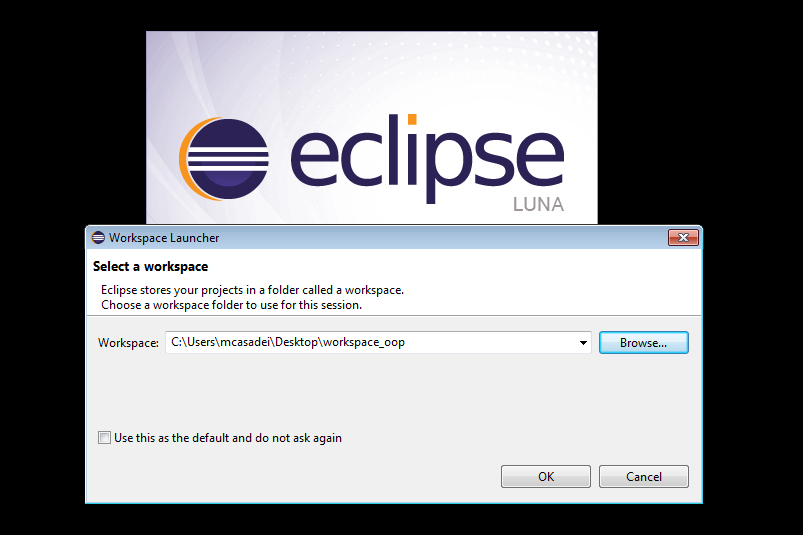
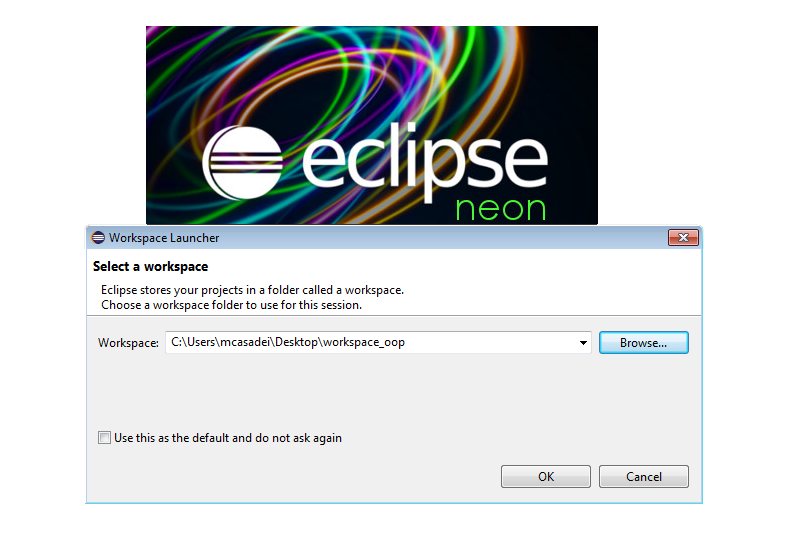
improvments on slides for the lab n.3

diff --git a/slides/03/03-Interfaces.tex b/slides/03/03-Interfaces.tex
@@ -1,7 +1,8 @@
 \documentclass[presentation]{beamer}
-\usepackage{oop-slides}
+\usepackage{../oop-slides-pianini}
 \setbeamertemplate{bibliography item}[text]
-\title[OOP03 -- Interfaces]{03 \\ Eclipse, Incapsulamento e Interfacce}
+\title[OOP03 -- Interfaces]{03\\Eclipse IDE, Incapsulamento e Interfacce}
+\author[Pianini]{Danilo Pianini\\Angelo Croatti, Simone Grotti, Mirko Viroli}
 
 \begin{document}
 	
@@ -11,48 +12,55 @@
 %Outline
 %====================
 \fr{Outline}{
-	\bl{Goal della lezione}{
-		\iz{ 
-			\item Introduzione ad Eclipse
-			\item Costruzione e test di classi con incapsulamento
-			\item Costruzione di classi con relazione di composizione e d'uso verso una interfaccia
-		}
-	}
+\bl{Goal della lezione}{
+\iz{ 
+\item Introduzione ad Eclipse
+\item Costruzione e test di classi con incapsulamento
+\item Costruzione di classi con relazione di composizione e d'uso verso una interfaccia
 }
-
+}
+}
 
 \begin{frame}<beamer>
 	\frametitle{Outline}
 	\tableofcontents[]
 \end{frame}
+
 \section{Eclipse Overview}
-
 \subsection{Introduzione}
-\fr{Integrated Development Environment (IDE)}{
 
-%	\bl{}{
-		\iz{
-			\item Gli Integrated Development Environment (IDE) sono applicazioni che integrano - nel medesimo ambiente - un insieme di strumenti per lo sviluppo di progetti software (e non)
-			\iz{
-					\item Editor di testo, compilatore, macchine virtuali per l'esecuzione e il debugging delle applicazioni, etc.
-											
-					\item Esempi di IDE sono Eclipse~\cite{eclipse}, Netbeans~\cite{netbeans}, Microsoft Visual Studio~\cite{vstudio}, JBuilder~\cite{jbuilder}, etc.
-				}
-		}				
-		\iz{
-			\item Un progetto è una collezione organizzata di risorse 
-				\iz{
-					\item Sorgenti, librerie, compilati, documentazione etc.
-				}
-		}			
-		\iz{
-			\item Gli IDE permettono di sviluppare progetti, in termini di creazione ed interazione con le risorse
-				\iz{
-						\item Editing, compilazione, esecuzione, debugging, testing, deployment (distribuzione delle applicazioni)	
-				}
-		}
-%	}
-}
+\begin{frame}{Integrated Development Environment (IDE)}
+
+\begin{block}{}
+\emph{A software suite that consolidates the basic tools developers need to write and test software. An IDE contains a code editor, a compiler and a debugger that the developer accesses through a single user interface.}
+\end{block}
+
+\begin{itemize}
+\item Ambiente integrato per la creazione e la gestione di progetti software.
+\begin{itemize}
+\item Un progetto, per un IDE, è composto da una collezione organizzata di risorse: sorgenti, librerie, compilati, documentazione, \dots
+\end{itemize}
+\item Componenti tipici di un IDE:
+\begin{itemize}
+\item Editor di testo con Syntax Highlighting (e Code Completion)
+\item Compilatore
+\item Macchina(e) virtuale per l'esecuzione e il debugging delle applicazioni
+\item Strumenti per agevolare il deployment (distribuzione) delle applicazioni
+\item \dots
+\end{itemize}
+\item Esempi di IDE:
+\begin{itemize}
+\item Eclipse, NetBeans, IntelliJ IDEA, Microsoft Visual Studio, XCode, \dots
+\end{itemize}
+\end{itemize}
+\end{frame}
+
+\begin{frame}{Diffusione dei principali IDE}
+\fg{height=0.7\textheight}{img/topIDE2015.png}
+Dati aggiornati a Luglio 2015\\\footnotesize{(fonte: \url{knoema.com/jtieieg/popularity-of-programming-languages})}
+\end{frame}
+
+
 
 \fr{Eclipse Overview}{
 
@@ -70,7 +78,7 @@
 	\bl{Un po' di storia}{
 		\iz{
 			\item Nato nei laboratori di ricerca IBM (alphaWorks) 
-			\item	Successivamente	donato alla comunità open-source che ora ne cura lo sviluppo per mezzo di una apposita fondazione~\cite{eclipse-foundation}
+			\item	Successivamente	donato alla comunità open-source che ora ne cura lo sviluppo per mezzo di una apposita fondazione
 			\item Correntemente supportato/utilizzato da un vasto numero di sviluppatori, sia in ambito accademico che industriale
 		}
 	}
@@ -81,7 +89,7 @@
 \subsection{Operazioni Base per lo Sviluppo di Progetti Java}
 
 \fr{Avvio di Eclipse: Scelta del Workspace}{
-	\fg{height=0.6\textheight}{img/eclipse_startup.png}	
+	\fg{height=0.8\textheight}{img/eclipse_startup.png}	
 }
 \fr{Creazione di Progetti Java 1/3}{
 	\fg{height=0.85\textheight}{img/new_prj1.png}
@@ -182,7 +190,7 @@
 				}
 			\item Supporto nativo lo sviluppo di nuovi plug-in
 				\iz{
-					\item Plug-in Development Environment (PDE)~\cite{eclipse-pde}
+					\item Plug-in Development Environment (PDE)
 				}
 		}
 	}
@@ -223,23 +231,19 @@
 		\fg{height=0.85\textheight}{img/jdt_perspective.png}
 }
 
-
-
-
-
 \section{Lab Startup}
 
 \fr{Preparazione Ambiente di Lavoro 1/2}{
-	\iz{
-		\item Accendere il PC
-		\item Loggarsi sul sito del corso
-		\iz{
-			\item \textcolor{blue}{\moodleurl}
-		}
-		\item Scaricare dalla sezione \texttt{lab} del sito il file \texttt{lab03.zip} contenente il materiale dell'esercitazione odierna
-		\item Spostare il file scaricato sul Desktop
-		\item Decomprimere il file usando 7zip (o un programma analogo) sul Desktop
-	}
+\iz{
+\item Accendere il PC
+\item Loggarsi sul sito del corso
+\iz{
+\item\textcolor{blue}{\url{https://bit.ly/oop2016cesena}}
+}
+\item Scaricare dalla sezione \texttt{lab} del sito il file \texttt{lab03.zip} contenente il materiale dell'esercitazione odierna
+\item Spostare il file scaricato sul Desktop
+\item Decomprimere il file usando 7zip (o un programma analogo) sul Desktop
+}
 }
 
 \fr{Preparazione Ambiente di Lavoro 2/2}{
@@ -487,7 +491,8 @@
 		\iz{
 			\item Campi
 			\iz{
-				\item \cil{int id, nMaxStudents, nRegisteredStudents; String courseName}
+				\item \cil{int id, nMaxStudents, nRegisteredStudents;}
+				\item \cil{String courseName;}
 				\item \cil{Student[] students; Professor professor}
 				\item \cil{ExamRoom room} (classe che modella un aula, \textcolor{blue}{fornita tra i sorgenti})
 			}
@@ -503,7 +508,7 @@
 			\iz{
 				\item \cil{public void registerStudent(Student student)}
 				\iz{
-					\item Iscrive lo studente all'appello. Nel caso sia stato già raggiunto il limite massimo di studenti per l'appello non fa nulla
+					\item Iscrive lo studente all'appello. Qualora si sia raggiunto il limite massimo di studenti per l'appello non fa nulla.
 				}
 			}
 		}
@@ -589,12 +594,12 @@
 	}
 }
 
-\begin{frame}[allowframebreaks]
- \frametitle{Bibliography}
-	\bibliographystyle{plain}
-	\small
- \bibliography{biblio}
-\end{frame}
+%\begin{frame}[allowframebreaks]
+% \frametitle{Bibliography}
+%	\bibliographystyle{plain}
+%	\small
+% \bibliography{biblio}
+%\end{frame}
 
 
 \end{document}
